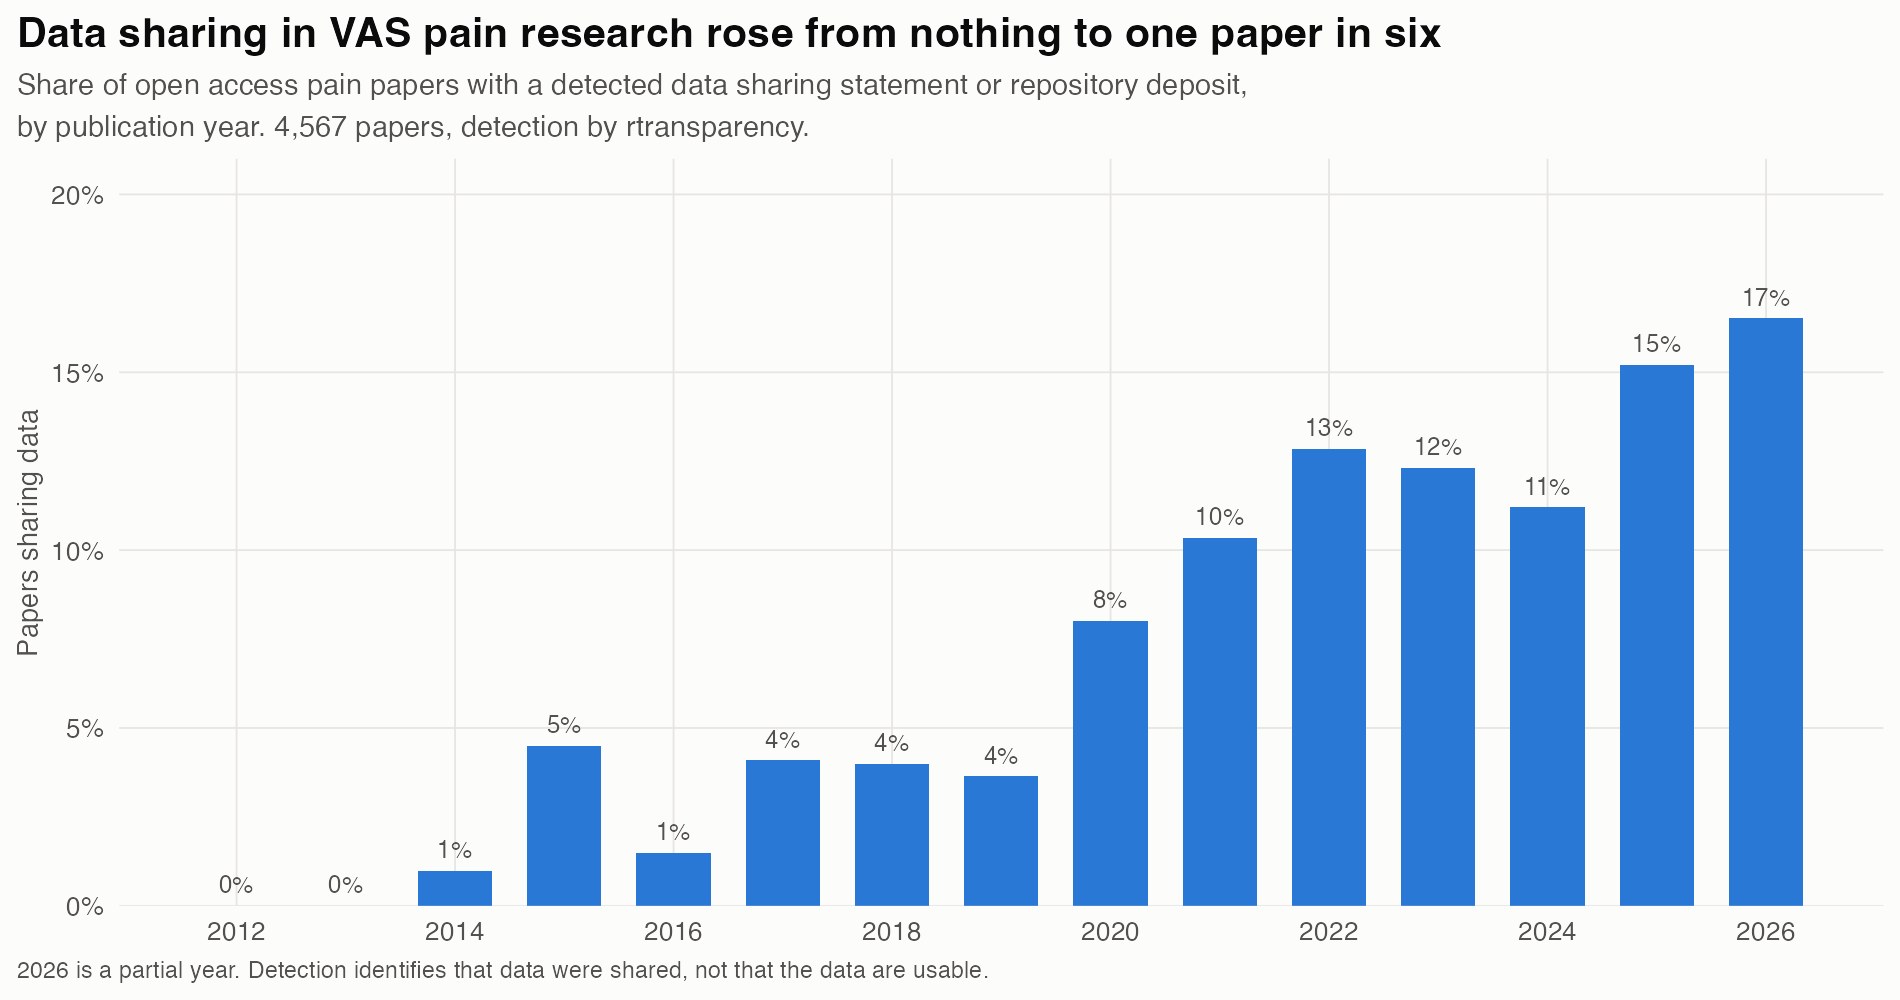
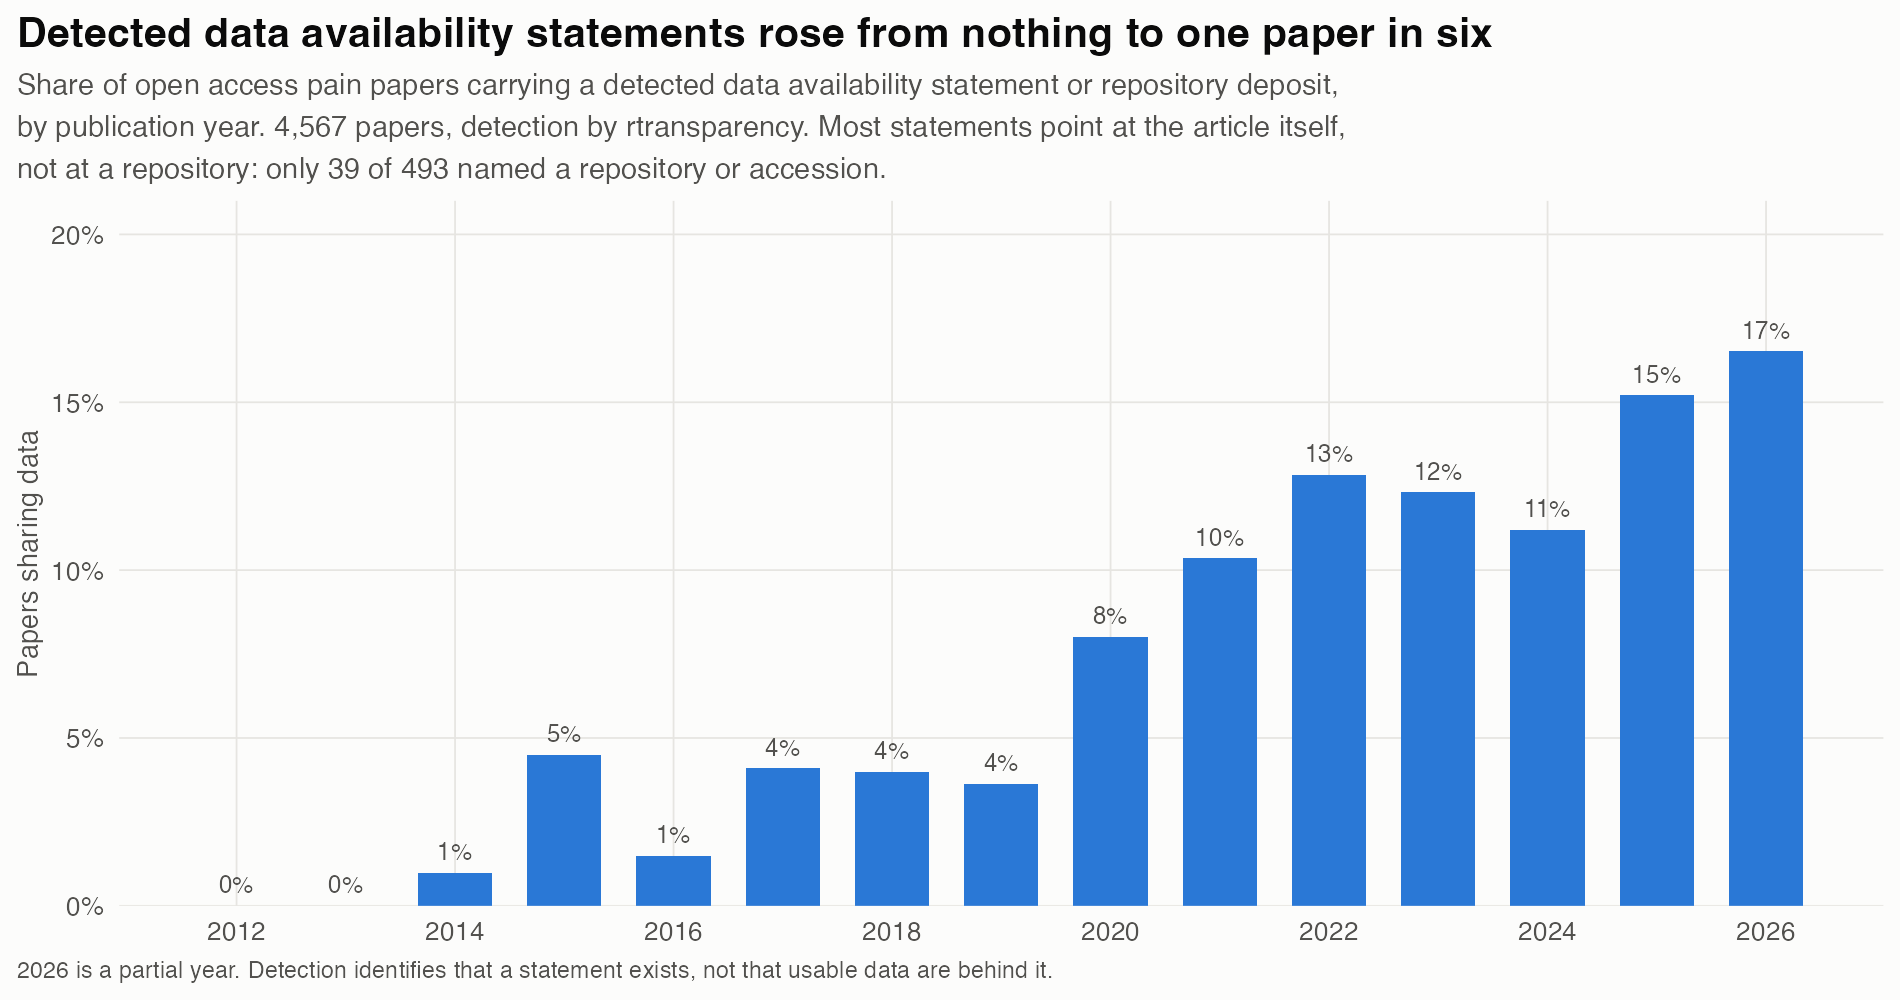
Distinguish availability statements from usable shared data throughout report and figures

diff --git a/REPORT.md b/REPORT.md
@@ -17,10 +17,10 @@ actually spans at each point on the scale.
 The method works. It was validated against simulated data where the display's
 nonlinearity is known by construction, and it recovers the true curve.
 
-The data do not exist in the published literature. Of **4,567** open access
-papers that use a VAS for pain alongside a named multi item pain instrument,
-**493** share data, and **two** share the item level responses an item response
-model requires. Neither of those two can carry the analysis. The rest share
+The shared data cannot carry it. Of **4,567** open access papers that use a VAS
+for pain alongside a named multi item pain instrument, **493** carry a data
+availability statement, and **two** share the item level responses an item
+response model requires. Neither of those two can carry the analysis. The rest share
 subscale and instrument totals, which cannot be modeled.
 
 This is a real finding about the research record rather than a failure of the
@@ -55,14 +55,28 @@ mandatory data policies were already fully inside the net.
 Every record's full text XML was downloaded and passed through
 `rtransparency::rt_data_code_pmc()`. 4,567 were processed successfully.
 
-| | n | % |
+| | n | % of screened |
 |---|---:|---:|
 | Papers screened | 4,567 | 100% |
-| Detected as sharing data | 493 | 10.8% |
-| Detected as sharing code | 36 | 0.8% |
+| Data availability statement detected | 493 | 10.8% |
+| Code sharing detected | 36 | 0.8% |
 | With a repository link (figshare, OSF, Zenodo, Dryad) | 41 | 0.9% |
 
-Sharing has risen steadily, from zero detected in 2012 and 2013 to 16.5% in 2026.
+Detection has risen steadily, from zero in 2012 and 2013 to 16.5% in 2026.
+
+**What those 493 statements actually say matters more than the count.** The
+detector reports that an availability statement exists, not that usable data sit
+behind it:
+
+| Statement type | n | % of the 493 |
+|---|---:|---:|
+| In the article or its supplement | 324 | 65.7% |
+| Other wording | 130 | 26.4% |
+| Names a repository or accession | 39 | 7.9% |
+
+Two thirds point at the article itself, which is exactly where screening then
+found subscale totals rather than item responses. Any headline rate quoted from
+this corpus should say "availability statement detected", not "data shared".
 
 ![Data sharing trend](out/figures/fig2_sharing_trend.png)
 
@@ -70,8 +84,9 @@ Sharing has risen steadily, from zero detected in 2012 and 2013 to 16.5% in 2026
 
 Supplementary bundles were pulled from the Europe PMC `supplementaryFiles`
 endpoint for every flagged paper, and repository links were resolved through the
-figshare, Zenodo, OSF and Dryad APIs. **77 tabular files** were recovered and
-**161 tables** scored, counting every sheet of every workbook separately.
+figshare, Zenodo, OSF and Dryad APIs. **102 tabular files** were retrieved, **77**
+of them machine readable, yielding **161 tables** once every sheet of every
+workbook was scored separately.
 
 Screening scores tables on *shape* rather than column name regexes, because real
 shared files name the rating `PI`, `pain0` or `NRS` at least as often as `VAS`. A
@@ -121,9 +136,9 @@ independent of the VAS display, so this one is admissible in principle.
 **Underpowered and badly covered.** Baseline VAS spans only 60 to 90; six week
 VAS spans 1 to 55. Neither occasion alone covers enough of the scale to fit a
 curve. Stacking both occasions covers 1 to 90 but leaves a hole between 55 and
-60, and the fitted curve spikes from 8.3 to 24.5 **exactly at that seam**, with a
-bootstrap band running from 12.9 to 32.2. That is the occasion gap, not scale
-geometry.
+60. The fitted curve climbs from 8.3 to 24.5 as it crosses that empty stretch,
+peaking just beyond it, with a bootstrap band running from 12.9 to 32.2. That is
+the occasion gap, not scale geometry.
 
 r(theta, VAS) = 0.66, which passes the construct check. Everything else fails.
 
@@ -139,8 +154,9 @@ construction. The estimator recovers the true curve: it reads about 13 near VAS
 is the validation that the pipeline measures what it claims to.
 
 **Panel B** is PMC10695107. It is shown because the honest output of this stage
-is the yield, not a curve. The spike sits in the coverage gap and the band is
-wider than the effect anyone would want to report.
+is the yield, not a curve. The rise runs straight through a stretch of the scale
+where the dataset has no observations, and the band is wider than any effect
+worth reporting.
 
 ---
 
@@ -193,6 +209,12 @@ Three routes remain, in order of cost:
    sample sizes three orders of magnitude above anything here. Both need a data
    use agreement rather than a download. This is the fastest route to the figure.
 
+   A direct search of Zenodo, Dryad and OSF by instrument name
+   (`R/08_repo_search.R`, results in `out/repo_search_hits.csv`) surfaced five
+   further human pain datasets worth opening by hand, including a Dryad deposit
+   on staged bilateral knee arthroplasty pain and an OSF item content analysis of
+   the Brief Pain Inventory interference subscale.
+
 2. **Ask the two authors.** PMC10695107 has admissible items and only needs more
    participants; the same group may hold more.
 
@@ -223,6 +245,7 @@ Rscript R/02_flag.R            # XML download, rtransparency detection
 Rscript R/02b_flag_extra.R
 Rscript R/03_screen.R          # supplements, shape scoring, review list
 Rscript R/03b_repos.R          # figshare, Zenodo, OSF, Dryad
+Rscript R/08_repo_search.R     # direct repository search by instrument
 Rscript R/04_interval_curve.R  # estimator plus self check
 Rscript R/07_run.R             # curated analysis
 Rscript R/09_figures.R         # figures 1 to 3
@@ -230,4 +253,4 @@ Rscript R/10_figure_main.R     # main figure
 ```
 
 `data/` is gitignored. Downloaded datasets stay local and keep their original
-licences and citations.
+licenses and citations.

diff --git a/README.md b/README.md
@@ -38,7 +38,11 @@ catastrophizing, or theta is a different construct and the curve means nothing.
 | `R/03_screen.R` | Pull supplementary bundles, score every table and Excel sheet, emit a ranked review list |
 | `R/03b_repos.R` | Follow figshare, Zenodo, OSF and Dryad links and download tabular files |
 | `R/04_interval_curve.R` | IRT plus monotone spline estimator, with a synthetic data self check |
-| `R/05_figure.R` | The PISA style figure |
+| `R/05_figure.R` | Figure helpers |
+| `R/07_run.R` | Curated analysis of the admissible dataset |
+| `R/08_repo_search.R` | Direct Zenodo, Dryad and OSF search by instrument |
+| `R/09_figures.R` | Funnel, sharing trend and granularity figures |
+| `R/10_figure_main.R` | The PISA style figure |
 
 Run `Rscript R/04_interval_curve.R` on its own to execute the self check: it
 simulates a display with known compression at the top and asserts the estimator
@@ -55,7 +59,14 @@ The curve measures VAS intervals relative to the IRT logit metric. That metric
 is itself a modeling choice, the same assumption the PISA plot makes. It is the
 comparison that is informative, not the absolute units.
 
+## Results
+
+Stage 1 is complete and written up in [REPORT.md](REPORT.md), with figures in
+`out/figures/` and tables in `out/`. Headline: of 4,567 open access papers,
+493 carry a data availability statement and two share the item level responses
+the method needs. Neither of the two can carry the analysis.
+
 ## Data
 
 `data/` is gitignored. Downloaded datasets stay local and keep their original
-licences and citations.
+licenses and citations.
